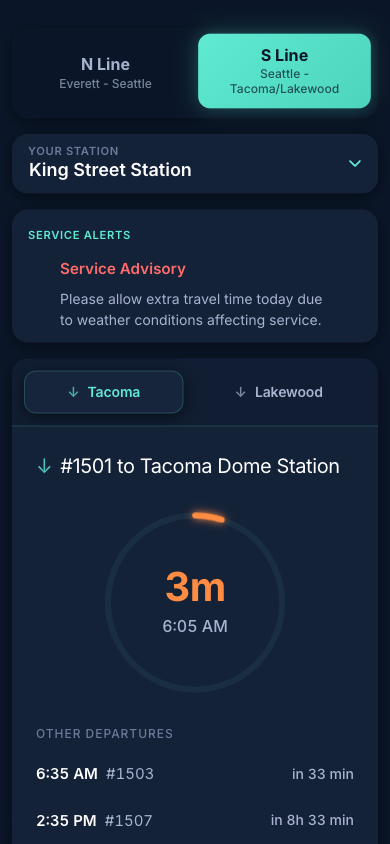
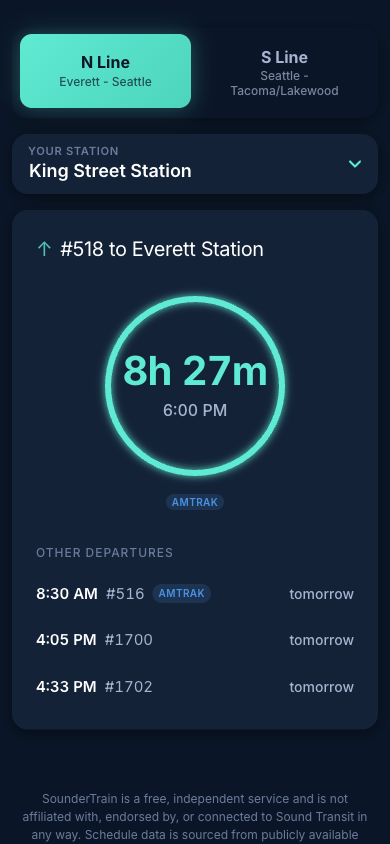
Update README and screenshots for Amtrak RailPlus integration
- Add Amtrak RailPlus Integration section documenting trains 516-519
- Update Data Sources to include Amtrak GTFS and Amtraker API
- Update Project Structure to show new alerts/ hooks folder
- Update disclaimer to mention Amtrak
- Add amtrak-badge.png screenshot showing the Amtrak badge feature
- Update hero.png to showcase Amtrak train in hero section

diff --git a/README.md b/README.md
@@ -29,6 +29,14 @@ Choose between the **N Line** (Everett - Seattle) and **S Line** (Seattle - Taco
 
 When multiple destinations are available, tabs let you quickly switch between them (e.g., Tacoma vs. Lakewood on the S Line).
 
+### Amtrak RailPlus Integration
+
+The N Line includes **Amtrak Cascades RailPlus trains** (516, 517, 518, 519) that serve Seattle, Edmonds, and Everett. These trains are part of the Sound Transit RailPlus program, allowing ORCA fare payment for travel between these stations.
+
+Amtrak trains are clearly marked with an "Amtrak" badge and appear mixed with Sounder trains, sorted by departure time. Real-time delay information is fetched from Amtrak's tracking system.
+
+![Amtrak RailPlus train](docs/screenshots/amtrak-badge.png)
+
 ### Smart Service Alerts
 
 Service alerts from Sound Transit are intelligently parsed and displayed in two ways:
@@ -123,7 +131,10 @@ src/
 │   ├── TrainList.tsx    # Main train display
 │   └── WeekendNotice.tsx
 ├── hooks/               # Custom React hooks
-│   ├── useAlerts.ts     # Alert fetching
+│   ├── alerts/          # Alert system
+│   │   ├── useAmtrakAlerts.ts      # Amtrak real-time status
+│   │   ├── useSoundTransitAlerts.ts # Sound Transit alerts
+│   │   └── useUnifiedAlerts.ts     # Combined alert provider
 │   ├── useInstallPrompt.ts  # PWA install prompt
 │   └── useLocalStorage.ts
 ├── utils/
@@ -144,9 +155,11 @@ public/
 
 ### Data Sources
 
-Schedule data comes from Sound Transit's official GTFS feed:
-- **Schedule:** `https://gtfs.sound.obaweb.org/prod/40_gtfs.zip`
-- **Service Alerts:** `https://s3.amazonaws.com/st-service-alerts-prod/alerts_pb.json`
+Schedule data comes from official GTFS feeds:
+- **Sounder Schedule:** `https://gtfs.sound.obaweb.org/prod/40_gtfs.zip`
+- **Amtrak RailPlus Schedule:** `https://content.amtrak.com/content/gtfs/GTFS.zip`
+- **Sound Transit Alerts:** `https://s3.amazonaws.com/st-service-alerts-prod/alerts_pb.json`
+- **Amtrak Real-Time Status:** `https://api-v3.amtraker.com/v3/trains` (via [Amtraker](https://amtraker.com))
 
 To update schedule data:
 
@@ -175,7 +188,7 @@ Contributions are welcome! Please feel free to submit issues and pull requests.
 
 ## Disclaimer
 
-SounderTrain is a free, independent service and is not affiliated with, endorsed by, or connected to Sound Transit in any way. Schedule data is sourced from publicly available GTFS feeds and may not reflect real-time conditions. Use official Sound Transit resources for authoritative schedule information.
+SounderTrain is a free, independent service and is not affiliated with, endorsed by, or connected to Sound Transit or Amtrak in any way. Schedule data is sourced from publicly available GTFS feeds and may not reflect real-time conditions. Use official Sound Transit and Amtrak resources for authoritative schedule information.
 
 ## License
 
